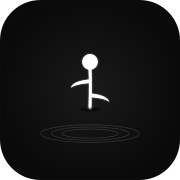
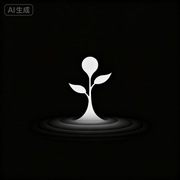
feat: 使用 AI 生成的高质量图标替换 SVG 图标
- 采用 AI 生成的立体图标设计
- 更强的光影效果和立体感
- 更精致的涟漪细节
- 保持黑色背景和白色植物主题
- 重新生成所有尺寸的 PNG 图标
- 添加从图片生成图标的自动化脚本

视觉效果更加高级和精致

🤖 Generated with [Claude Code](https://claude.com/claude-code)

diff --git a/scripts/generate-icons-from-image.js b/scripts/generate-icons-from-image.js
@@ -1,0 +1,84 @@
+#!/usr/bin/env node
+
+const fs = require('fs');
+const path = require('path');
+const sharp = require('sharp');
+
+// Icon sizes needed for PWA
+const sizes = [72, 96, 128, 144, 152, 192, 384, 512];
+
+// Paths
+const sourceImage = process.argv[2];
+const iconsDir = path.join(__dirname, '../public/icons');
+
+async function generateIconsFromImage() {
+  console.log('🎨 从图片生成 PWA 图标...\n');
+
+  // Check if source image exists
+  if (!sourceImage || !fs.existsSync(sourceImage)) {
+    console.error('❌ 错误: 请提供源图片路径');
+    console.error('用法: node generate-icons-from-image.js <图片路径>');
+    process.exit(1);
+  }
+
+  console.log('📁 源图片:', sourceImage);
+
+  // Read image
+  const imageBuffer = fs.readFileSync(sourceImage);
+  const metadata = await sharp(imageBuffer).metadata();
+  console.log(`📐 源图片尺寸: ${metadata.width}x${metadata.height}\n`);
+
+  // Generate SVG (copy original as reference, we'll use PNG for actual icons)
+  try {
+    // Generate each PNG size
+    for (const size of sizes) {
+      const outputPath = path.join(iconsDir, `icon-${size}x${size}.png`);
+
+      await sharp(imageBuffer)
+        .resize(size, size, {
+          fit: 'contain',
+          background: { r: 0, g: 0, b: 0, alpha: 1 } // 黑色背景
+        })
+        .png()
+        .toFile(outputPath);
+
+      console.log(`✅ 生成: icon-${size}x${size}.png`);
+    }
+
+    // Generate favicon (32x32)
+    const faviconPath = path.join(__dirname, '../app/favicon.ico');
+    const faviconBuffer = await sharp(imageBuffer)
+      .resize(32, 32, {
+        fit: 'contain',
+        background: { r: 0, g: 0, b: 0, alpha: 1 }
+      })
+      .png()
+      .toBuffer();
+
+    fs.writeFileSync(faviconPath, faviconBuffer);
+    console.log('✅ 生成: app/favicon.ico (32x32)');
+
+    // Generate apple-touch-icon (180x180)
+    const appleTouchIconPath = path.join(__dirname, '../app/apple-touch-icon.png');
+    await sharp(imageBuffer)
+      .resize(180, 180, {
+        fit: 'contain',
+        background: { r: 0, g: 0, b: 0, alpha: 1 }
+      })
+      .png()
+      .toFile(appleTouchIconPath);
+
+    console.log('✅ 生成: app/apple-touch-icon.png (180x180)');
+
+    console.log('\n🎉 所有图标生成成功！');
+    console.log(`📁 位置: ${iconsDir}`);
+  } catch (error) {
+    console.error('❌ 生成失败:', error.message);
+    process.exit(1);
+  }
+}
+
+generateIconsFromImage().catch(error => {
+  console.error('❌ 错误:', error);
+  process.exit(1);
+});
